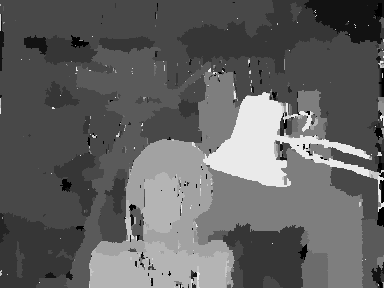
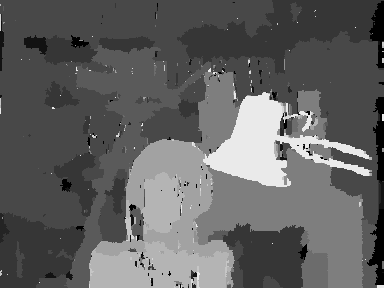
energydata change

Changed region(s): [[0.7812, 0.0, 1.0, 0.75], [0.9375, 0.7812, 1.0, 1.0]]

diff --git a/stereoMatching.py b/stereoMatching.py
@@ -55,7 +55,8 @@ def energyData(x,y,label,l1,r1):
 
 	if (y+label+1>=w):
 		# deal with boundary of the image. some pixel in right omage do not appear in left image
-		return np.absolute(r1[x][y]-l1[x][y-label-1])
+		# return np.absolute(r1[x][y]-l1[x][y-label-1])
+		return energyData(x,y-1,label,l1,r1)
 	else:
 		
 		return np.absolute(r1[x][y]-l1[x][y+label+1])
@@ -211,7 +212,7 @@ def change_label(alpha,beta,nodes,dLL,newGraph,dDict):
 	#not sure if we need change edge relationship
 	return new_dLL
 
-def swap(dDict,dLL,l1,r1,disInd,coe1=10,coe2=20,coe3=5):
+def swap(dDict,dLL,l1,r1,disInd,coe1=10,coe2=15,coe3=5):
 	counter = 0
 	helper1 = [x for x in range(disInd)]
 	dis_image = np.zeros(r1.shape,dtype = int)
